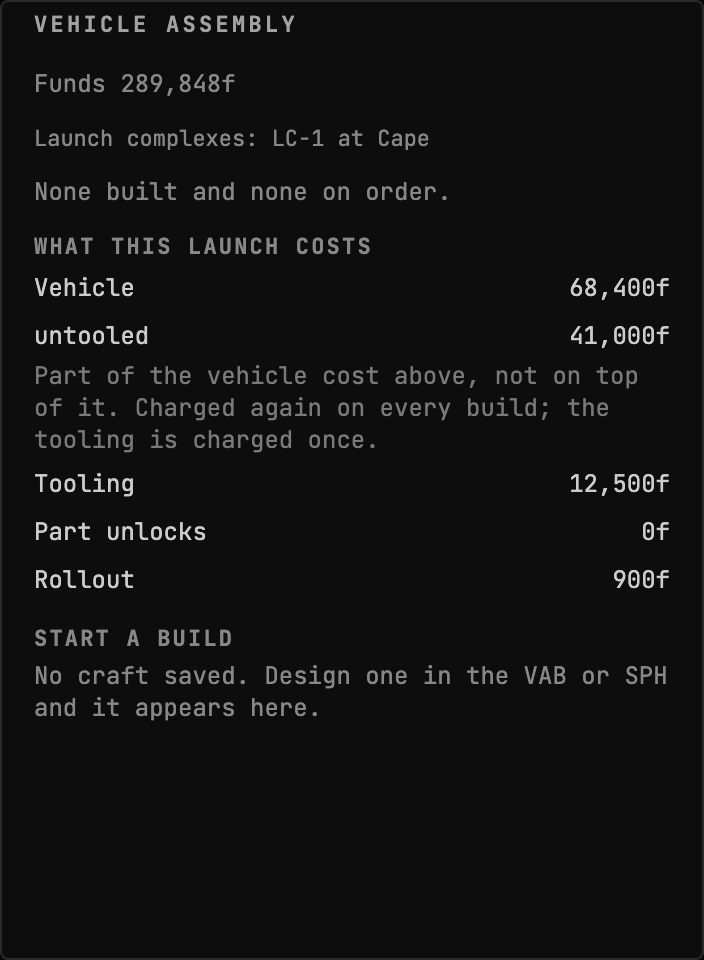
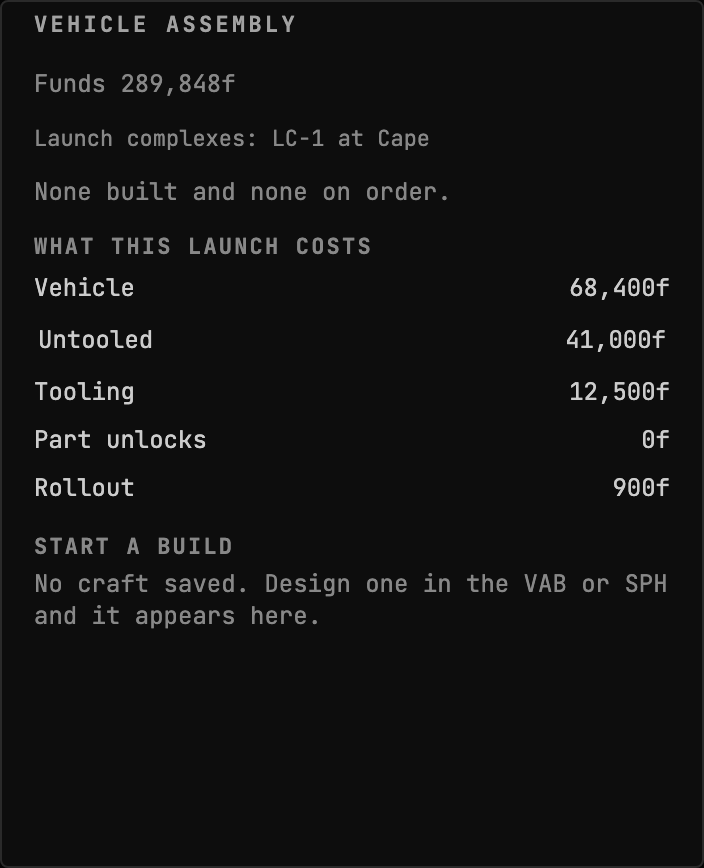
refactor(rp1): draw the of-which as an indent instead of saying it in prose
Operator ruling on the rendered cost section. Both sentences go and the
structure carries what they carried.

An of-which relationship is a TREE, so it is drawn as one: Untooled is indented
under Vehicle. The indent says containment at every size, on every render, in
no language, and it cannot be clipped away the way the label carrying it was.
Prose was simply the wrong instrument for a structural fact, which is a better
answer than the one this section shipped with this morning.

The "charged once while the penalty returns on every build" line was guidance
rather than instrumentation and is gone under the same ruling. This is a
mission control, not a storybook.

Capitalised, because it was the only lowercase line item and read as a
different KIND of thing purely by accident of casing.

The word "Untooled" is RP-1's own and stays. Its code carries
ProcessUntooledParts, GetUntooledPartsAndCost, UntooledMultiplier and a
_untooledTypesScroll region in its own tooling window, so an operator meets the
term in the game before they meet it here; a clearer-sounding synonym would
make two concepts out of one. Said in the doc comment so nobody later improves
it into something less true.

THE INDENT DOES NOT HOLD AT THE WIDGET'S MINIMUM, by two pixels, and the cause
is worth writing down rather than working around: ui-kit's Box pads BOTH sides
and only the left communicates anything, so the waste on the right is exactly
[…]

diff --git a/mod/GonogoRp1Uplink/client/src/VehicleAssembly/BuildCost.tsx b/mod/GonogoRp1Uplink/client/src/VehicleAssembly/BuildCost.tsx
@@ -2,6 +2,7 @@ import type { Value } from "@ksp-gonogo/sitrep-sdk";
 import { registerAugment, useTelemetry } from "@ksp-gonogo/sitrep-sdk";
 import {
   Badge,
+  Box,
   Cluster,
   NULL_DISPLAY,
   Row,
@@ -87,41 +88,37 @@ function CostRow({ name, value }: { name: string; value?: Value<"funds"> }) {
 }
 
 /**
- * The untooled surcharge, drawn as an OF WHICH of the vehicle line above it.
+ * The untooled surcharge, drawn INDENTED under the vehicle cost.
  *
- * <para><b>This is the one row whose placement is load-bearing.</b> The surcharge
- * is already inside the vehicle cost: RP-1's tooling module is an
+ * <para><b>The indent is the whole statement, and it replaced two sentences.</b> The
+ * surcharge is already inside the vehicle cost: RP-1's tooling module is an
  * `IPartCostModifier`, the game folds its contribution into each part's price, and
- * the vehicle figure contains it before it reaches the wire. Drawn as another line
- * in the column it would invite an operator to add it, and the total they arrived
- * at would be more than the launch costs.</para>
+ * the vehicle figure contains it before it reaches the wire. Drawn level with the
+ * other lines it invites an operator to add it, and the total they arrive at is more
+ * than the launch costs.</para>
  *
- * <para>It carries the decision as well as the number. The surcharge is paid on
- * EVERY copy of this vehicle ever built and the tooling above it is paid once, so
- * the badge is the thing that turns two figures into a choice.</para>
+ * <para>That containment used to be said in prose. An of-which relationship is a
+ * TREE, so it is drawn as one: the indent says it at every size, on every render,
+ * without a word, and it cannot be clipped away the way a label was. A sentence was
+ * the wrong instrument for a structural fact.</para>
+ *
+ * <para><b>"Untooled" is RP-1's own word, not ours.</b> Its code carries
+ * `ProcessUntooledParts`, `GetUntooledPartsAndCost`, `UntooledMultiplier` and a
+ * `_untooledTypesScroll` region in its own tooling window, so an operator meets the
+ * term in the game before they meet it here. A clearer-sounding synonym would make
+ * two concepts out of one; leave it alone.</para>
  */
 function SurchargeRow({ cost }: { cost: Rp1BuildCost }) {
   if (cost.untooledSurcharge == null) {
     return null;
   }
   return (
-    /* THE MEANING IS IN THE SENTENCE, NOT THE LABEL, and renders at three sizes
-       are what settled that. The row's name gets 60px at this widget's minimum and
-       "of which untooled" needs 122, so the wording that carries the whole point
-       was clipped away exactly where the widget is hardest to read. A short label
-       and a full-width line below it cannot clip, and the line can say more than a
-       label had room to: that this is part of the figure above rather than extra,
-       and that it returns on every build while the tooling does not. */
-    <Stack gap="xs" data-of-which="">
+    <Box pad={["xs", "xs"]} data-of-which="">
       <Row as="div">
-        <RowName>untooled</RowName>
+        <RowName>Untooled</RowName>
         <Unit value={cost.untooledSurcharge} decimals={0} />
       </Row>
-      <Text tone="faint" size="sm">
-        Part of the vehicle cost above, not on top of it. Charged again on every
-        build; the tooling is charged once.
-      </Text>
-    </Stack>
+    </Box>
   );
 }
 

diff --git a/mod/GonogoRp1Uplink/client/src/VehicleAssembly/buildCost.test.tsx b/mod/GonogoRp1Uplink/client/src/VehicleAssembly/buildCost.test.tsx
@@ -99,17 +99,30 @@ describe("BuildCostSection: funds, and only funds", () => {
   });
 
   /**
-   * The assertion the whole section is shaped around. The surcharge is INSIDE the
-   * vehicle cost, so the wording has to say so: an operator who reads the column
-   * as a sum arrives at a number larger than the launch costs.
+   * The containment is STRUCTURAL, so this asserts the structure rather than a
+   * sentence. The surcharge is inside the vehicle cost, and an operator who reads
+   * the column as a sum arrives at more than the launch costs; the indent is what
+   * stops that, on every render and at every size, where prose was clipped away at
+   * the narrow ones.
+   *
+   * <para>Asserted through the marker the indent container carries rather than
+   * through a class or a pixel offset: the test should fail if the row stops being
+   * SUBORDINATE, not if the design system changes how far it insets.</para>
    */
-  it("says the surcharge is part of the vehicle cost rather than on top of it", async () => {
+  it("nests the surcharge under the vehicle cost rather than beside it", async () => {
     const stream = mount();
 
     emit(stream, PRICED);
+    await screen.findByText("Untooled");
 
-    expect(await screen.findByText(/untooled/)).toBeInTheDocument();
-    expect(visibleText(stream.container)).toContain("not on top of it");
+    const nested = stream.container.querySelector("[data-of-which]");
+    expect(nested).not.toBeNull();
+    expect(nested?.textContent).toContain("Untooled");
+
+    // And the prose it replaced is gone, so a later edit cannot quietly put a
+    // sentence back beside the structure that now carries the meaning.
+    expect(visibleText(stream.container)).not.toContain("not on top of it");
+    expect(visibleText(stream.container)).not.toContain("charged once");
   });
 
   /**

diff --git a/mod/GonogoRp1Uplink/client/README.md b/mod/GonogoRp1Uplink/client/README.md
@@ -165,9 +165,7 @@ Every craft RP-1 is integrating, holding or could start, across every launch com
 
 ![The same widget at 18 × 5](docs/assets/build-cost-absences-and-tech-gate--landscape-18x5.png)
 
-![Most of what this vehicle costs is the penalty for flying it untooled, and the tooling that removes it is cheaper than one build of the penalty](docs/assets/build-cost-mostly-surcharge--default.png)
-
-![The same widget at its minimum size](docs/assets/build-cost-mostly-surcharge--min.png)
+![Most of what this vehicle costs is the penalty for flying it untooled: the indent says that figure is part of the one above rather than added to it](docs/assets/build-cost-mostly-surcharge--default.png)
 
 ![The same widget at 9 × 8](docs/assets/build-cost-mostly-surcharge--mobile-9x8.png)
 
